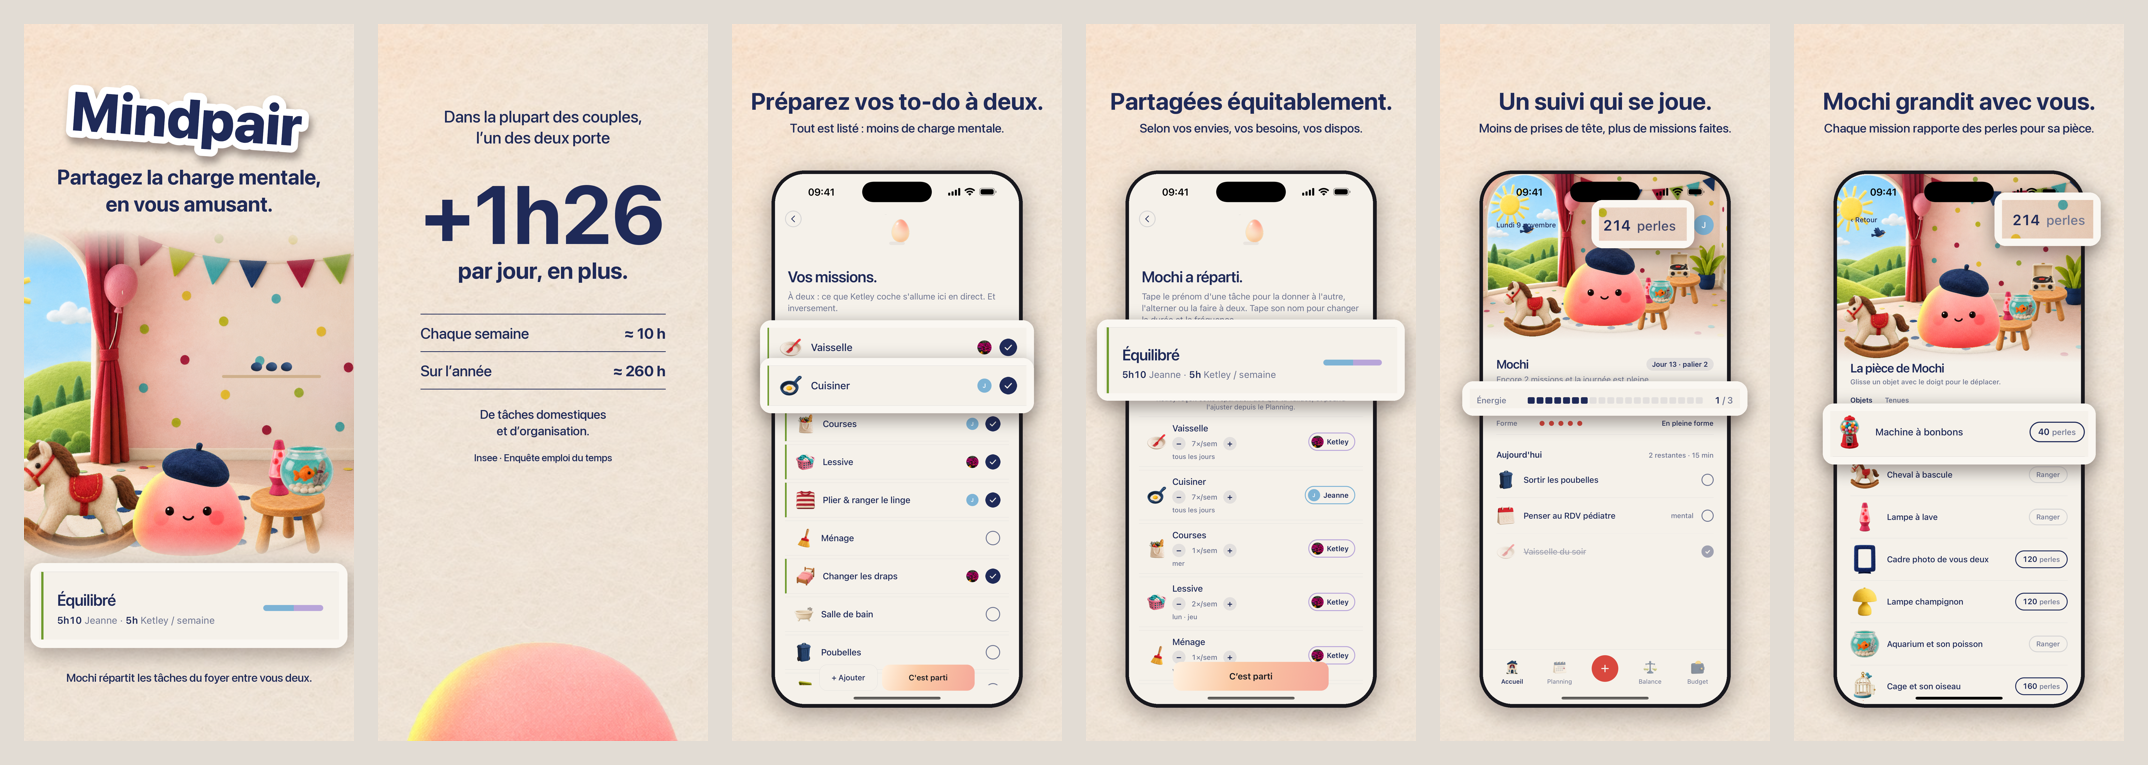
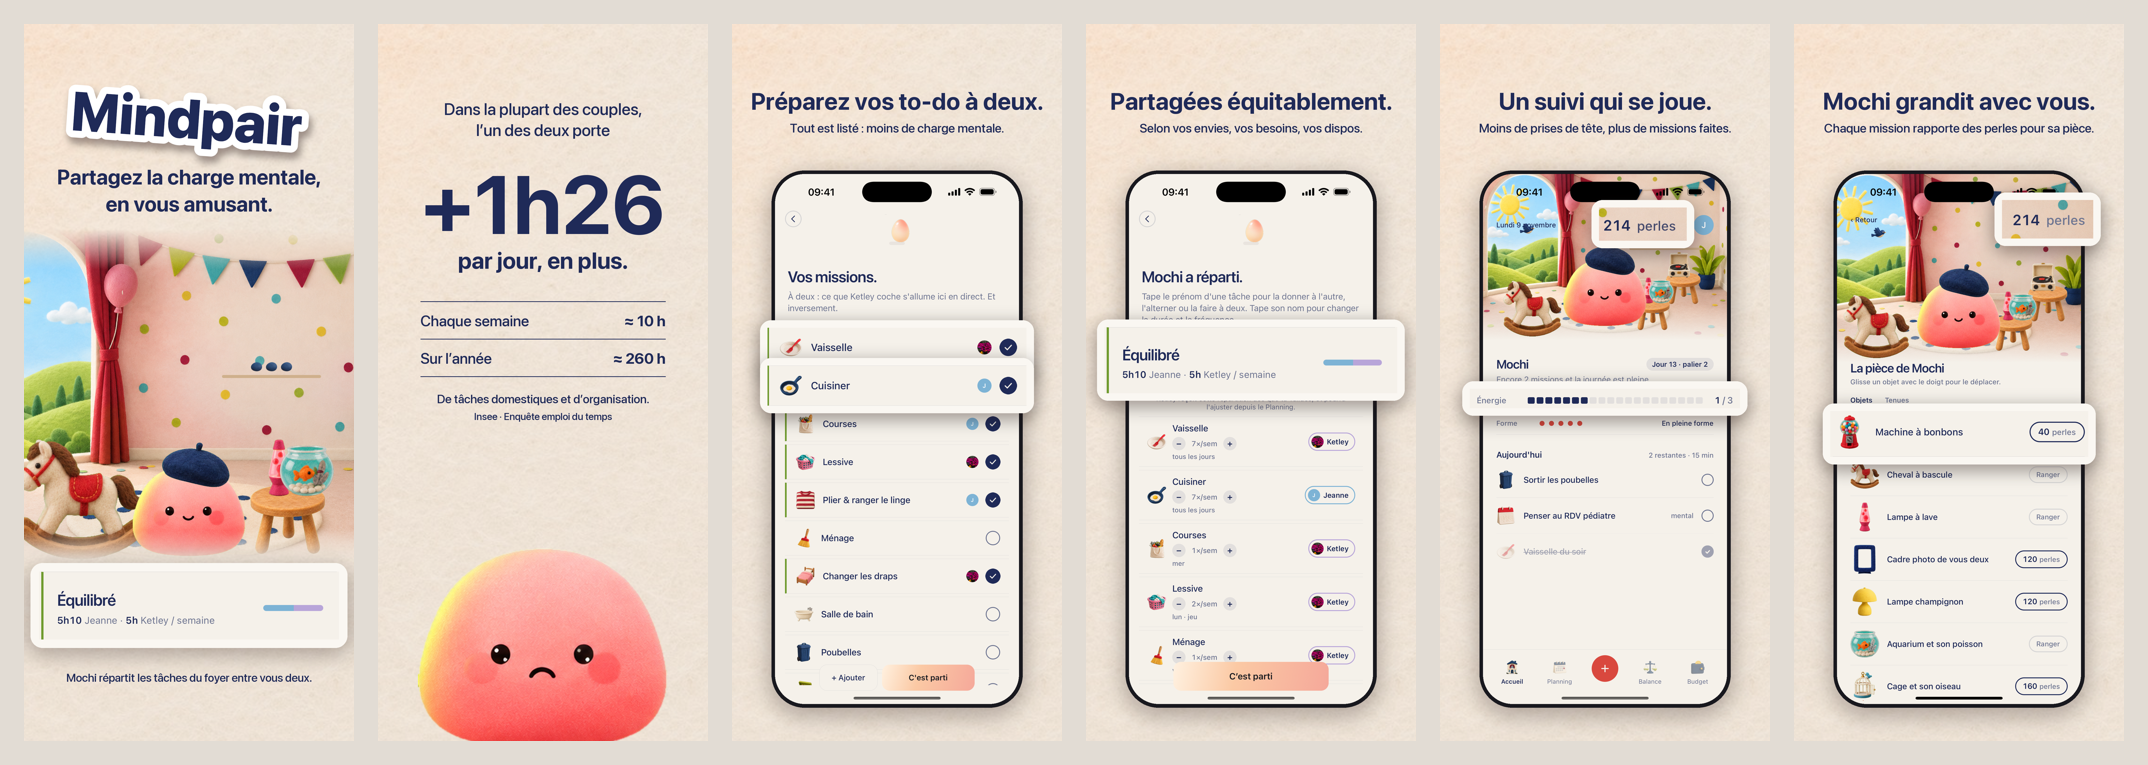
Captures App Store : Mochi triste visible sur l'écran Insee

Changed region(s): [[0.1872, 0.1203, 0.3119, 0.6013], [0.1872, 0.7216, 0.3119, 0.9922]]

diff --git a/scripts/store-ecran2-insee.py b/scripts/store-ecran2-insee.py
@@ -1,0 +1,24 @@
+# Écran 2 App Store (Insee) : texte seul sur feutre, Mochi triste en bas, visage visible (Jeanne, 10 nov 2026).
+from PIL import Image, ImageDraw, ImageFont
+M='/Users/jeannecazalot/mochi/'; B=M+'design/app-store/brut/'; O=M+'design/app-store/'
+W,H=1320,2868; INK=(31,42,88)
+SF='/System/Library/Fonts/SFNS.ttf'
+def font(sz,w):
+    f=ImageFont.truetype(SF,sz); f.set_variation_by_name(w); return f
+base=Image.new('RGB',(W,H),(0xF3,0xEA,0xDF)); felt=Image.open(M+'assets/splash/feutre.jpg').convert('RGB').resize((H,H))
+lay=base.copy(); lay.paste(felt,((W-H)//2,0)); im=Image.blend(base,lay,0.55).convert('RGBA'); d=ImageDraw.Draw(im)
+def c(y,t,f,fill):
+    w=d.textlength(t,font=f); d.text(((W-w)/2,y),t,font=f,fill=fill)
+c(300,'Dans la plupart des couples,',font(66,'Medium'),INK+(190,)); c(384,'l’un des deux porte',font(66,'Medium'),INK+(190,))
+c(520,'+1h26',font(330,'Bold'),INK); c(890,'par jour, en plus.',font(92,'Bold'),INK)
+y=1110
+for t,v in [('Chaque semaine','≈ 10 h'),('Sur l’année','≈ 260 h')]:
+    d.line((170,y,W-170,y),fill=INK+(40,),width=3); d.text((170,y+40),t,font=font(60,'Medium'),fill=INK+(190,))
+    fv=font(60,'Bold'); w=d.textlength(v,font=fv); d.text((W-170-w,y+40),v,font=fv,fill=INK); y+=150
+d.line((170,y,W-170,y),fill=INK+(40,),width=3)
+c(y+60,'De tâches domestiques et d’organisation.',font(48,'Medium'),INK+(150,))
+c(y+135,'Insee · Enquête emploi du temps',font(40,'Medium'),INK+(120,))
+m=Image.open(B+'mochi-sad.png').convert('RGBA'); mw=1000; m=m.resize((mw,int(mw*m.height/m.width)),Image.LANCZOS)
+im.alpha_composite(m,((W-mw)//2,H-int(m.height*0.96)))  # on voit le visage, le bas du corps sort de l'écran
+im.convert('RGB').save(O+'v6-02.png')
+im.convert('RGB').resize((440,956)).save('/private/tmp/claude-501/-Users-jeannecazalot-Desktop-mochi-kickoff/17a8d86e-cb64-456e-8b82-3e270de20b35/scratchpad/e2.png')
